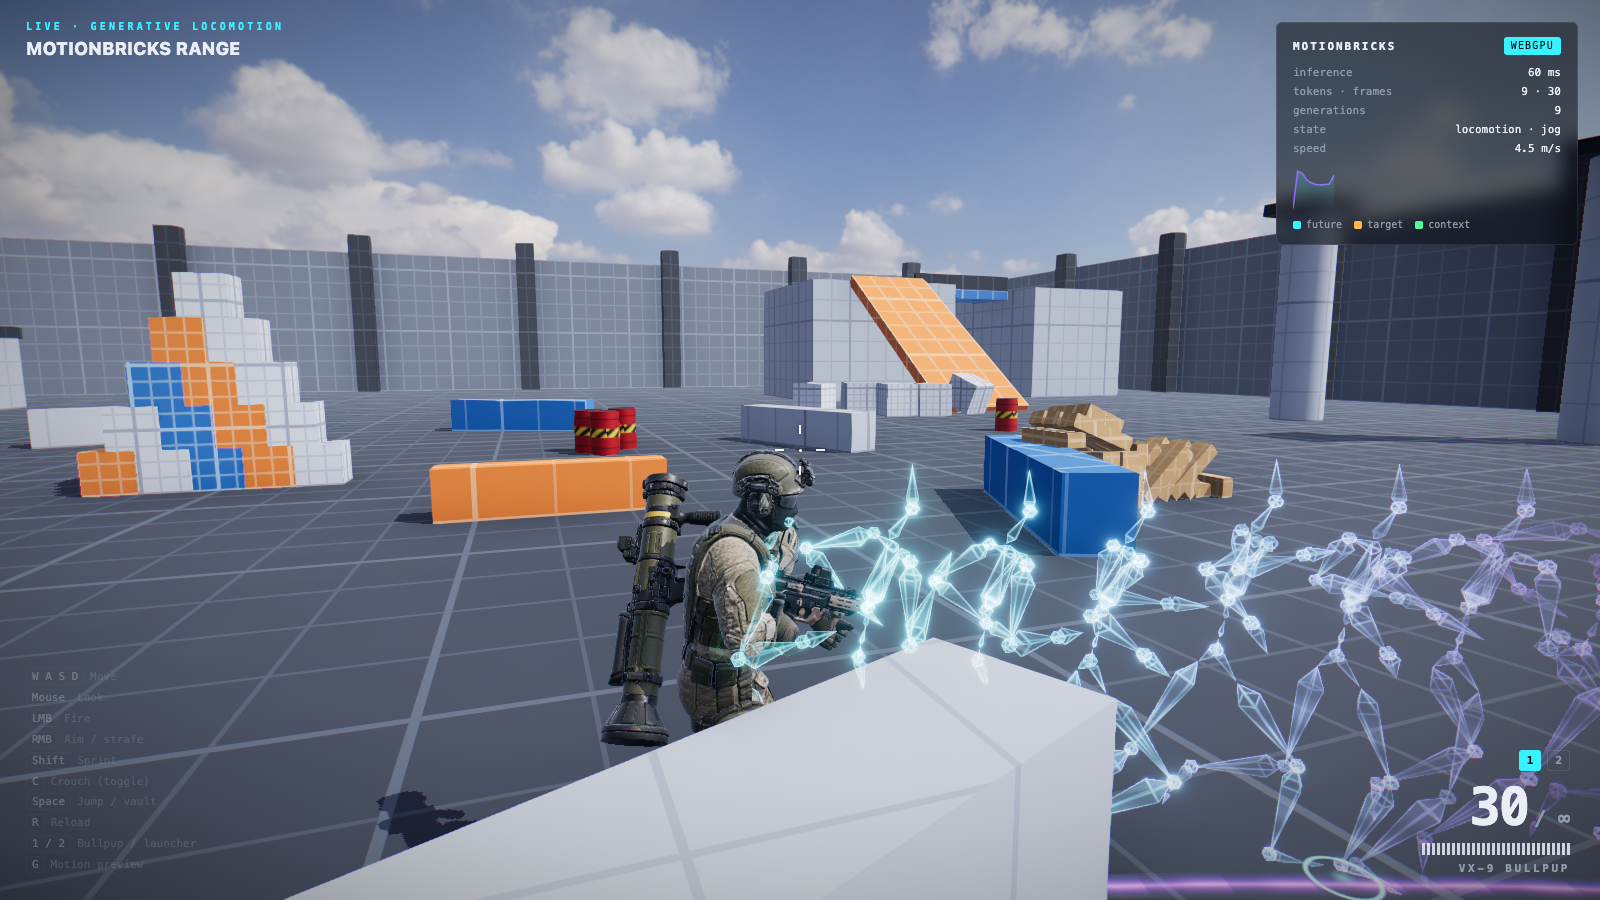
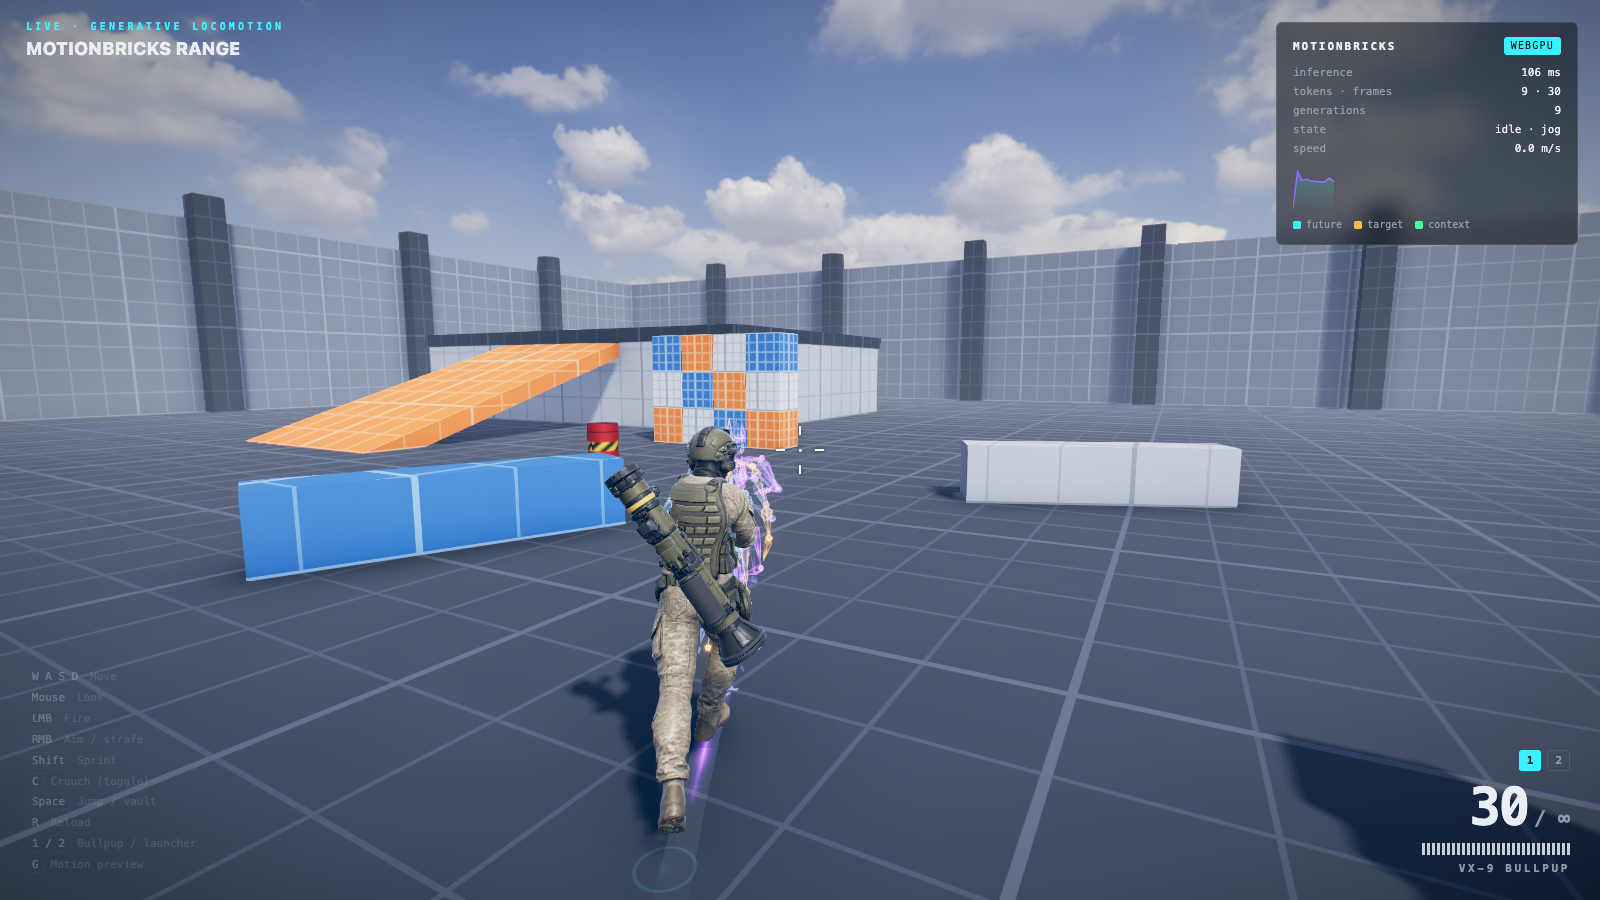
Keep 4K textures and baked AO on the operator and weapons
The operator, bullpup and launcher keep Tripo's full 4K maps (the
operator GLB is now 8.2 MB, each weapon about 3.9 MB). The occlusion
channel of each ORM texture now feeds the AO map, which deepens
straps, pouches and weapon detail. The README and AGENTS describe the
new render pipeline, and the screenshot shows the new look.

diff --git a/src/character/soldier.ts b/src/character/soldier.ts
@@ -115,6 +115,12 @@ export class Soldier {
         mesh.receiveShadow = true;
         const material = mesh.material as MeshStandardMaterial;
         material.envMapIntensity = envMapIntensity;
+        // Tripo packs occlusion, roughness and metalness into one ORM texture; glTF only wires up
+        // roughness/metalness, so use its red channel as the ambient-occlusion map too.
+        if (!material.aoMap && material.roughnessMap && material.roughnessMap === material.metalnessMap) {
+          material.aoMap = material.roughnessMap;
+          material.aoMapIntensity = 1;
+        }
         setAnisotropy(material, 8);
         addRimLight(material);
       });

diff --git a/README.md b/README.md
@@ -61,7 +61,7 @@ src/
   game/              input, camera rig, player character, weapon
   world/             Rapier wrapper, grey-box level, shootable props
   fx/                motion-preview holograms, particles, tracers/decals/flashes
-  render/            renderer + post stack (N8AO, bloom, ACES, SMAA), grid material
+  render/            renderer, cascaded shadows, post stack (N8AO, height fog, bloom, ACES, grade, SMAA)
   ui/                splash + HUD
   audio.ts           procedural WebAudio sound effects
 scripts/             fetch-assets.mjs, optimize-models.mjs, assets/ (AI asset generation)
@@ -83,6 +83,11 @@ The character, the bullpup rifle and the compact rocket launcher are all generat
 
 The scene is lit by an HDRI sky (Poly Haven, CC0). Its sun direction, sun colour and horizon fog are all read from the image, and the image also supplies the image-based lighting. Additional touches:
 
+- cascaded sun shadows (three 2048² cascades ending at 10, 40 and 150 m) with soft PCF penumbrae
+- exponential height fog that glows with sun inscattering when you look toward the sun
+- full-resolution ambient occlusion, plus the baked AO from each model's ORM texture
+- a filmic grade after ACES tone mapping: a gentle S-curve and warm highlights over cool shadows
+- the operator and weapons at their full 4K texture resolution
 - a fresnel rim light that lifts the operator off the background
 - a mesh muzzle flash, ejected brass and a laser sight
 - noise-shaded fire and smoke

diff --git a/AGENTS.md b/AGENTS.md
@@ -19,7 +19,7 @@ Source GLBs live in `assets-src/models/` with attribution. Generated runtime ass
 - `npm test` runs the Vitest integration tests against the real model.
 
 ## Coding Style & Naming Conventions
-TypeScript with strict mode and 2-space indentation. Use classes for stateful systems (`MotionPlayer`, `Props`) and plain functions for math. Keep tuning constants in labeled objects near the top of each module (`RIG`, `AIM`, `MODES`, `LOOK`, `CARBINE`). Name files after their primary export. Coordinates are Y-up meters everywhere. A heading θ faces `(sin θ, 0, cos θ)`.
+TypeScript with strict mode and 2-space indentation. Use classes for stateful systems (`MotionPlayer`, `Props`) and plain functions for math. Keep tuning constants in labeled objects near the top of each module (`RIG`, `AIM`, `MODES`, `LOOK`, `CARBINE`). Name files after their primary export. Coordinates are Y-up meters everywhere. A heading θ faces `(sin θ, 0, cos θ)`. The sun is a cascaded shadow map (`CSM` in `src/render/renderer.ts`), so don't add a `DirectionalLight`. New lit materials join the cascades automatically, because the renderer sweeps the scene every 0.25 s.
 
 ## Testing Guidelines
 Run `npm test` after touching `src/motion/` or locomotion tuning. It guards gait quality (`gait.test.ts`: no shuffling or hopping) and responsiveness (start, stop and turn times). For visual or gameplay changes, run `npm run dev` and confirm the following:
